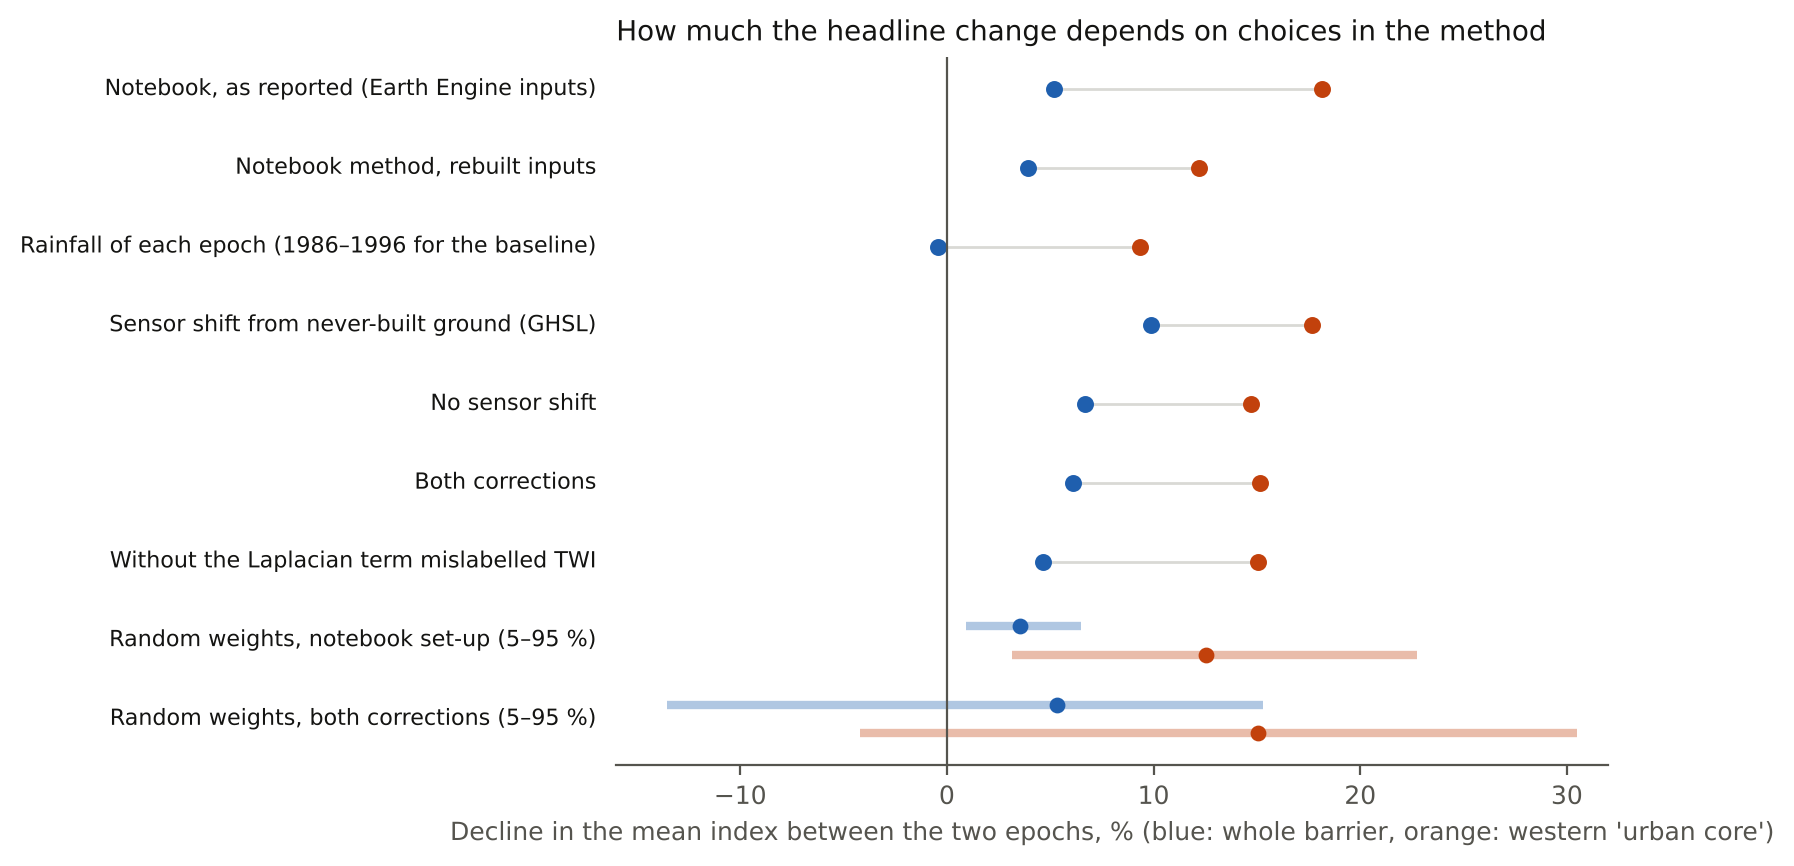
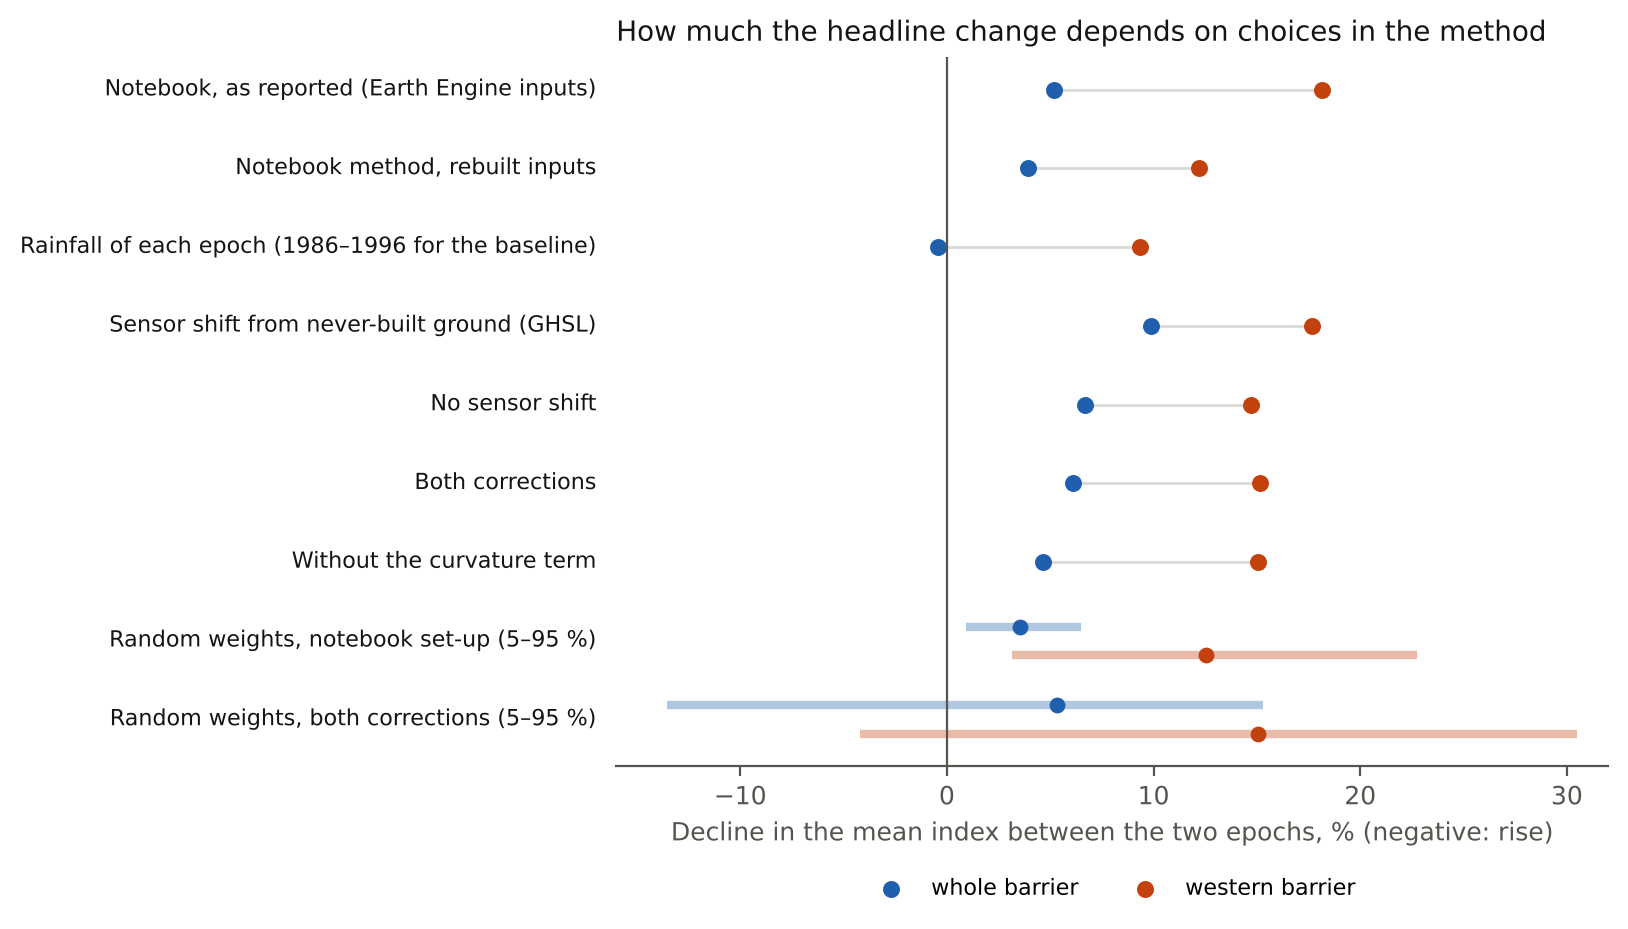
Figures: wording matches the paper, Fig 6 legend, contours at cell centres, WebP and phone versions for the page

diff --git a/code/pipeline/p04_figures.py b/code/pipeline/p04_figures.py
@@ -1,9 +1,12 @@
 """Stage 4: figures for the report and the website, drawn only from the outputs of stages 1-3.
 
-Writes docs/assets/figures/*.png (website, 2x for sharp display) and figures/audit-2026-11/*.png (repository copies).
+Writes figures/audit-2026-11/*.png (paper and repository) and, for the website, docs/assets/figures/*.webp plus a
+*_phone.webp version of each, drawn narrower so that its text stays readable on a phone.
     python3 code/pipeline/p04_figures.py
 """
+import io
 import json
+import textwrap
 from pathlib import Path
 
 import matplotlib
@@ -25,9 +28,31 @@ plt.rcParams.update({"font.family": "DejaVu Sans", "font.size": 9, "axes.edgecol
                      "axes.spines.top": False, "axes.spines.right": False, "savefig.facecolor": "white"})
 
 
+PHONE = {"on": False}
+PHONE_W = 3.8  # inches: 7-point text then stays above about 9 CSS pixels on a 390 px phone screen
+
+
+def sub(*args, figsize=(6, 4), **kw):
+    """plt.subplots, narrowed for the phone version (text keeps its point size, so it grows relative to the plot)."""
+    if PHONE["on"]:
+        f = PHONE_W / figsize[0]
+        figsize = (PHONE_W, figsize[1] * max(f, 0.75))
+    return plt.subplots(*args, figsize=figsize, **kw)
+
+
+def wrap_(text, width=24):
+    return textwrap.fill(text, width) if PHONE["on"] else text
+
+
 def save(fig, name):
-    for d in (DOCS, REPO_FIG):
-        fig.savefig(d / name, dpi=200, bbox_inches="tight")
+    from PIL import Image
+    stem = name.rsplit(".", 1)[0]
+    if PHONE["on"]:
+        buf = io.BytesIO(); fig.savefig(buf, dpi=220, bbox_inches="tight"); buf.seek(0)
+        Image.open(buf).convert("RGB").save(DOCS / f"{stem}_phone.webp", quality=82, method=6)
+    else:
+        fig.savefig(REPO_FIG / name, dpi=200, bbox_inches="tight")
+        Image.open(REPO_FIG / name).convert("RGB").save(DOCS / f"{stem}.webp", quality=82, method=6)
     plt.close(fig)
 
 
@@ -59,7 +84,7 @@ def map_frame(ax, ext, scale_km=10):
 
 
 def fig_study(a, ext, m):
-    fig, ax = plt.subplots(figsize=(9, 4.4))
+    fig, ax = sub(figsize=(9, 4.4))
     ax.set_facecolor(WATER)
     base = np.where(m["valid"] & ~m["water"], 1.0, np.nan)
     ax.imshow(np.where(m["land"], np.nan, base), extent=ext, cmap=ListedColormap(["#e7e6e1"]), interpolation="nearest")
@@ -70,18 +95,19 @@ def fig_study(a, ext, m):
     map_frame(ax, ext)
     for (x, y, t) in [(0.17, 0.80, "Lagos Lagoon"), (0.80, 0.86, "Lekki Lagoon"), (0.50, 0.08, "Atlantic Ocean (Gulf of Guinea)")]:
         ax.text(ext[0] + x * (ext[1] - ext[0]), ext[2] + y * (ext[3] - ext[2]), t, fontsize=8, style="italic", color="#3b5b75", ha="center")
-    ax.set_title("Study domain: the Lekki–Epe barrier between the lagoons and the sea (UTM 31N, km)", loc="left", color=INK)
+    ax.set_title(wrap_("Study domain: the Lekki–Epe barrier between the lagoons and the sea (UTM 31N, km)", 44), loc="left", color=INK)
     cb = fig.colorbar(im, ax=ax, fraction=0.025, pad=0.01); cb.set_label("Copernicus DEM (surface model), m", fontsize=7); cb.ax.tick_params(labelsize=7)
-    ax.text(ext[0] + 0.02 * (ext[1] - ext[0]), ext[3] - 0.08 * (ext[3] - ext[2]),
-            "Shaded orange: the notebook's 'urban core' (western 45 % of columns)", fontsize=7, color="#9a3412")
+    if not PHONE["on"]:  # on a phone the caption carries this note
+        ax.text(ext[0] + 0.02 * (ext[1] - ext[0]), ext[3] - 0.08 * (ext[3] - ext[2]),
+            wrap_("Shaded orange: the western barrier (the earlier study's 'urban core', western 45 % of columns)", 40), fontsize=7, color="#9a3412")
     save(fig, "study_area.png")
 
 
 def fig_index(ext, m, R):
     d = np.where(m["land"], m["arpi_95"] - m["arpi_24"], np.nan)
-    fig, axes = plt.subplots(3, 1, figsize=(9, 10.2), constrained_layout=True)
-    for ax, arr, t in ((axes[0], np.where(m["land"], m["arpi_95"], np.nan), "Recharge-potential index from 1986–1996 imagery"),
-                       (axes[1], np.where(m["land"], m["arpi_24"], np.nan), "Recharge-potential index from 2023–2024 imagery")):
+    fig, axes = sub(3, 1, figsize=(9, 10.2), constrained_layout=True)
+    for ax, arr, t in ((axes[0], np.where(m["land"], m["arpi_95"], np.nan), wrap_("Recharge-potential index from 1986–1996 imagery", 40)),
+                       (axes[1], np.where(m["land"], m["arpi_24"], np.nan), wrap_("Recharge-potential index from 2023–2024 imagery", 40))):
         ax.set_facecolor(WATER)
         im = ax.imshow(arr, extent=ext, cmap="YlGnBu", vmin=0.2, vmax=0.85, interpolation="nearest")
         map_frame(ax, ext); ax.set_title(t, loc="left", color=INK)
@@ -91,8 +117,8 @@ def fig_index(ext, m, R):
     map_frame(ax, ext)
     x70 = ext[0] + 0.70 * (ext[1] - ext[0])
     ax.axvline(x70, color=INK, lw=0.8, ls="--")
-    ax.text(x70 + 400, ext[3] - 0.12 * (ext[3] - ext[2]), "the notebook's 'rural' reference\n(eastern 30 % of columns)", fontsize=7, color=INK)
-    ax.set_title("Change in the index (red: decline, blue: rise)", loc="left", color=INK)
+    ax.text(x70 + 400, ext[3] - 0.12 * (ext[3] - ext[2]), "the earlier study's\nunchanged reference\n(eastern 30 %)", fontsize=7, color=INK)
+    ax.set_title(wrap_("Change in the index (red: decline, blue: rise)", 40), loc="left", color=INK)
     fig.colorbar(im, ax=ax, fraction=0.025, pad=0.01).set_label("earlier minus later", fontsize=7)
     save(fig, "index_maps.png")
 
@@ -104,25 +130,27 @@ def fig_sensitivity(R):
            "shift_from_ghsl_never_built": "Sensor shift from never-built ground (GHSL)",
            "no_sensor_shift": "No sensor shift",
            "per_epoch_rain_and_ghsl_shift": "Both corrections",
-           "without_twi_term": "Without the Laplacian term mislabelled TWI"}
+           "without_twi_term": "Without the curvature term"}
     rows += [(lab[k], v["basin_change_pct"], v["urban_core_change_pct"]) for k, v in R["variants"].items()]
     ws = R["weight_sensitivity"]
-    fig, ax = plt.subplots(figsize=(6.4, 4.6))
+    fig, ax = sub(figsize=(6.4, 4.6) if not PHONE["on"] else (6.4, 7.4))
     y = np.arange(len(rows))[::-1] + 2.5
     for yy, (t, b, u) in zip(y, rows):
         ax.plot([b, u], [yy, yy], color=RULE, lw=1, zorder=1)
         ax.scatter([b], [yy], s=26, color="#1f5fae", zorder=2); ax.scatter([u], [yy], s=26, color="#c2410c", zorder=2)
-        ax.text(-0.02, yy, t, va="center", ha="right", fontsize=8, color=INK, transform=ax.get_yaxis_transform())
+        ax.text(-0.02, yy, wrap_(t, 22), va="center", ha="right", fontsize=8, color=INK, transform=ax.get_yaxis_transform())
     for base_y, tag, label in ((1.5, "notebook_setup", "Random weights, notebook set-up (5–95 %)"), (0.5, "corrected_setup", "Random weights, both corrections (5–95 %)")):
         for dy, key, col in ((0.18, "basin_change_pct_p5_p50_p95", "#1f5fae"), (-0.18, "urban_core_change_pct_p5_p50_p95", "#c2410c")):
             p5, p50, p95 = ws[tag][key]
             ax.plot([p5, p95], [base_y + dy] * 2, color=col, lw=3, alpha=0.35, solid_capstyle="butt"); ax.scatter([p50], [base_y + dy], color=col, s=22)
-        ax.text(-0.02, base_y, label, va="center", ha="right", fontsize=8, color=INK, transform=ax.get_yaxis_transform())
+        ax.text(-0.02, base_y, wrap_(label, 22), va="center", ha="right", fontsize=8, color=INK, transform=ax.get_yaxis_transform())
     ax.axvline(0, color=INK2, lw=0.8)
     ax.set_xlim(-16, 32); ax.set_yticks([])
     ax.spines["left"].set_visible(False)
-    ax.set_xlabel("Decline in the mean index between the two epochs, % (blue: whole barrier, orange: western 'urban core')")
-    ax.set_title("How much the headline change depends on choices in the method", loc="left", color=INK)
+    ax.set_xlabel(wrap_("Decline in the mean index between the two epochs, % (negative: rise)", 36))
+    ax.scatter([], [], s=26, color="#1f5fae", label="whole barrier"); ax.scatter([], [], s=26, color="#c2410c", label="western barrier")
+    ax.legend(loc="upper center", bbox_to_anchor=(0.5, -0.16 if PHONE["on"] else -0.13), ncol=2, fontsize=8, frameon=False)
+    ax.set_title(wrap_("How much the headline change depends on choices in the method", 36), loc="left", color=INK)
     save(fig, "index_sensitivity.png")
 
 
@@ -138,16 +166,16 @@ def fig_ghsl(m, a):
     x, y = d_built[ok], d_arpi[ok]
     bins = np.array([-0.01, 0.02, 0.1, 0.2, 0.4, 1.0])
     idx = np.digitize(x, bins) - 1
-    fig, ax = plt.subplots(figsize=(6.2, 3.4))
+    fig, ax = sub(figsize=(6.2, 3.4))
     data = [y[idx == i] for i in range(len(bins) - 1)]
     ax.boxplot(data, widths=0.5, showfliers=False, medianprops=dict(color="#c2410c"), boxprops=dict(color=INK2), whiskerprops=dict(color=INK2), capprops=dict(color=INK2))
-    ax.set_xticklabels(["< 0.02", "0.02–0.1", "0.1–0.2", "0.2–0.4", "> 0.4"])
+    ax.set_xticklabels(["< 0.02", "0.02–0.1", "0.1–0.2", "0.2–0.4", "> 0.4"], fontsize=7 if PHONE["on"] else 9)
     for i, d_ in enumerate(data, 1):
         ax.text(i, 1.01, f"n = {len(d_)}", ha="center", va="bottom", fontsize=7, color=INK2, transform=ax.get_xaxis_transform())
     ax.axhline(0, color=RULE, lw=0.8)
-    ax.set_xlabel("Gain in GHSL built-up fraction, 1990–2020 (300 m blocks)")
-    ax.set_ylabel("Change in index, later minus earlier")
-    ax.set_title("The index falls where GHSL records new buildings", loc="left", color=INK, pad=16)
+    ax.set_xlabel(wrap_("Gain in GHSL built-up fraction, 1990–2020 (300 m blocks)", 36))
+    ax.set_ylabel(wrap_("Change in index, later minus earlier", 24))
+    ax.set_title(wrap_("The index falls where GHSL records new buildings", 34), loc="left", color=INK, pad=16)
     save(fig, "ghsl_check.png")
 
 
@@ -158,14 +186,15 @@ def fig_heads(ext_c, H, Rm):
     from scipy.ndimage import binary_erosion
     h90, h20 = H[key]
     act = H["active"]
-    fig, axes = plt.subplots(2, 1, figsize=(9, 7.4), constrained_layout=True)
+    fig, axes = sub(2, 1, figsize=(9, 7.4), constrained_layout=True)
     ax = axes[0]; ax.set_facecolor(WATER)
     hh = np.where(act, h20, np.nan)
     im = ax.imshow(hh, extent=ext_c, cmap="Blues", vmin=0, vmax=6, interpolation="nearest")
     ny, nx = hh.shape
-    X = np.linspace(ext_c[0], ext_c[1], nx); Y = np.linspace(ext_c[3], ext_c[2], ny)
+    X = ext_c[0] + (np.arange(nx) + 0.5) * 150.0; Y = ext_c[3] - (np.arange(ny) + 0.5) * 150.0  # cell centres
     cs = ax.contour(X, Y, hh, levels=[1, 2, 3, 4, 5], colors=INK, linewidths=0.4)
-    ax.clabel(cs, fontsize=6, fmt="%g m")
+    if not PHONE["on"]:
+        ax.clabel(cs, fontsize=6, fmt="%g m")
     gy, gx = np.gradient(hh)
     inner = binary_erosion(act, iterations=3)
     s_ = 10
@@ -175,7 +204,7 @@ def fig_heads(ext_c, H, Rm):
     mag = np.hypot(u, v) + 1e-9
     ax.quiver(X[xx[ok]], Y[yy[ok]], u / mag, v / mag, color="#c2410c", scale=45, width=0.0018, headwidth=4, pivot="middle")
     map_frame(ax, ext_c)
-    ax.set_title("Water table, central scenario (K 15 m/day, base −30 m, c 0.35, 2020). Arrows: direction of groundwater flow",
+    ax.set_title(wrap_("Water table, reference scenario (K 15 m/day, base −30 m, c 0.35, 2020). Arrows: direction of groundwater flow", 46),
                  loc="left", color=INK, fontsize=9)
     fig.colorbar(im, ax=ax, fraction=0.025, pad=0.01).set_label("Head above sea level, m", fontsize=7)
     key2 = "spectral_k15_b30_c0.35"
@@ -183,7 +212,7 @@ def fig_heads(ext_c, H, Rm):
     dd = (H[key2][1] - H[key2][0]) if key2 in H.files else (h20 - h90)
     im = ax.imshow(np.where(act, dd, np.nan), extent=ext_c, cmap="RdBu", norm=TwoSlopeNorm(0, -1.0, 1.0), interpolation="nearest")
     map_frame(ax, ext_c)
-    ax.set_title("Change in water table 1990 → 2020, high spectral sealing scenario (red: fall, blue: rise)", loc="left", color=INK, fontsize=9)
+    ax.set_title(wrap_("Change in water table 1990 → 2020, high sealing scenario (red: fall, blue: rise)", 46), loc="left", color=INK, fontsize=9)
     fig.colorbar(im, ax=ax, fraction=0.025, pad=0.01).set_label("m", fontsize=7)
     save(fig, "heads.png")
 
@@ -191,22 +220,34 @@ def fig_heads(ext_c, H, Rm):
 def fig_scenarios(Rm):
     rows = [s for s in Rm["scenarios"] if "head_change_2020_minus_1990" in s]
     combos = sorted({(s["k_m_day"], s["base_m"], s["c"]) for s in rows})
-    fig, ax = plt.subplots(figsize=(7.2, 3.6))
+    fig, ax = sub(figsize=(7.2, 3.6) if not PHONE["on"] else (7.2, 6.0))
     for i, cmb in enumerate(combos):
         for sealing, col in (("ghsl", "#1f5fae"), ("spectral", "#c2410c")):
             r = [s for s in rows if s["sealing"] == sealing and (s["k_m_day"], s["base_m"], s["c"]) == cmb][0]
             ax.scatter(r["head_change_2020_minus_1990"]["mean_core_m"], i, color=col, s=20, zorder=2)
         ax.axhline(i, color=RULE, lw=0.5, zorder=1)
     ax.set_yticks(range(len(combos)))
-    ax.set_yticklabels([f"K {k:g} m/day · base {b:g} m · c {c}" for k, b, c in combos], fontsize=7)
+    ax.set_yticklabels([(f"K {k:g} · base {b:g} · c {c}" if PHONE["on"] else f"K {k:g} m/day · base {b:g} m · c {c}") for k, b, c in combos], fontsize=7)
     ax.axvline(0, color=INK2, lw=0.8)
-    ax.set_xlabel("Mean change in water table in the western 'urban core', 1990 → 2020, m")
-    ax.set_title("All 24 scenario pairs. Blue: sealing from GHSL buildings (footprints only, likely too low).\nOrange: high scenario from the index's satellite term (not a bound)",
-                 loc="left", color=INK, fontsize=9)
+    ax.set_xlabel(wrap_("Mean change in water table in the western barrier, 1990 → 2020, m", 36))
+    ax.scatter([], [], s=20, color="#1f5fae", label="GHSL buildings (likely too low)")
+    ax.scatter([], [], s=20, color="#c2410c", label="high scenario (from the index)")
+    ax.legend(loc="upper center", bbox_to_anchor=(0.5, -0.22 if not PHONE["on"] else -0.16), ncol=1 if PHONE["on"] else 2, fontsize=8, frameon=False,
+              title="Sealing from", title_fontsize=8)
+    ax.set_title(wrap_("All 24 scenario pairs (sealing and rainfall both change)", 36), loc="left", color=INK, fontsize=9)
     save(fig, "scenarios.png")
 
 
 def main():
+    for f in DOCS.glob("*.png"):
+        f.unlink()  # the website uses WebP; the PNGs live in figures/audit-2026-11/
+    for phone in (False, True):
+        PHONE["on"] = phone
+        draw()
+    print("figures written to", DOCS, "and", REPO_FIG)
+
+
+def draw():
     a, ext = load_stack()
     m = np.load(OUT / "index_arrays.npz")
     R = json.load(open(OUT / "index_results.json"))
@@ -221,7 +262,6 @@ def main():
         ext_c = [ext[0], ext[0] + nx * 150.0, ext[3] - ny * 150.0, ext[3]]
         fig_heads(ext_c, H, Rm)
         fig_scenarios(Rm)
-    print("figures written to", DOCS)
 
 
 if __name__ == "__main__":
